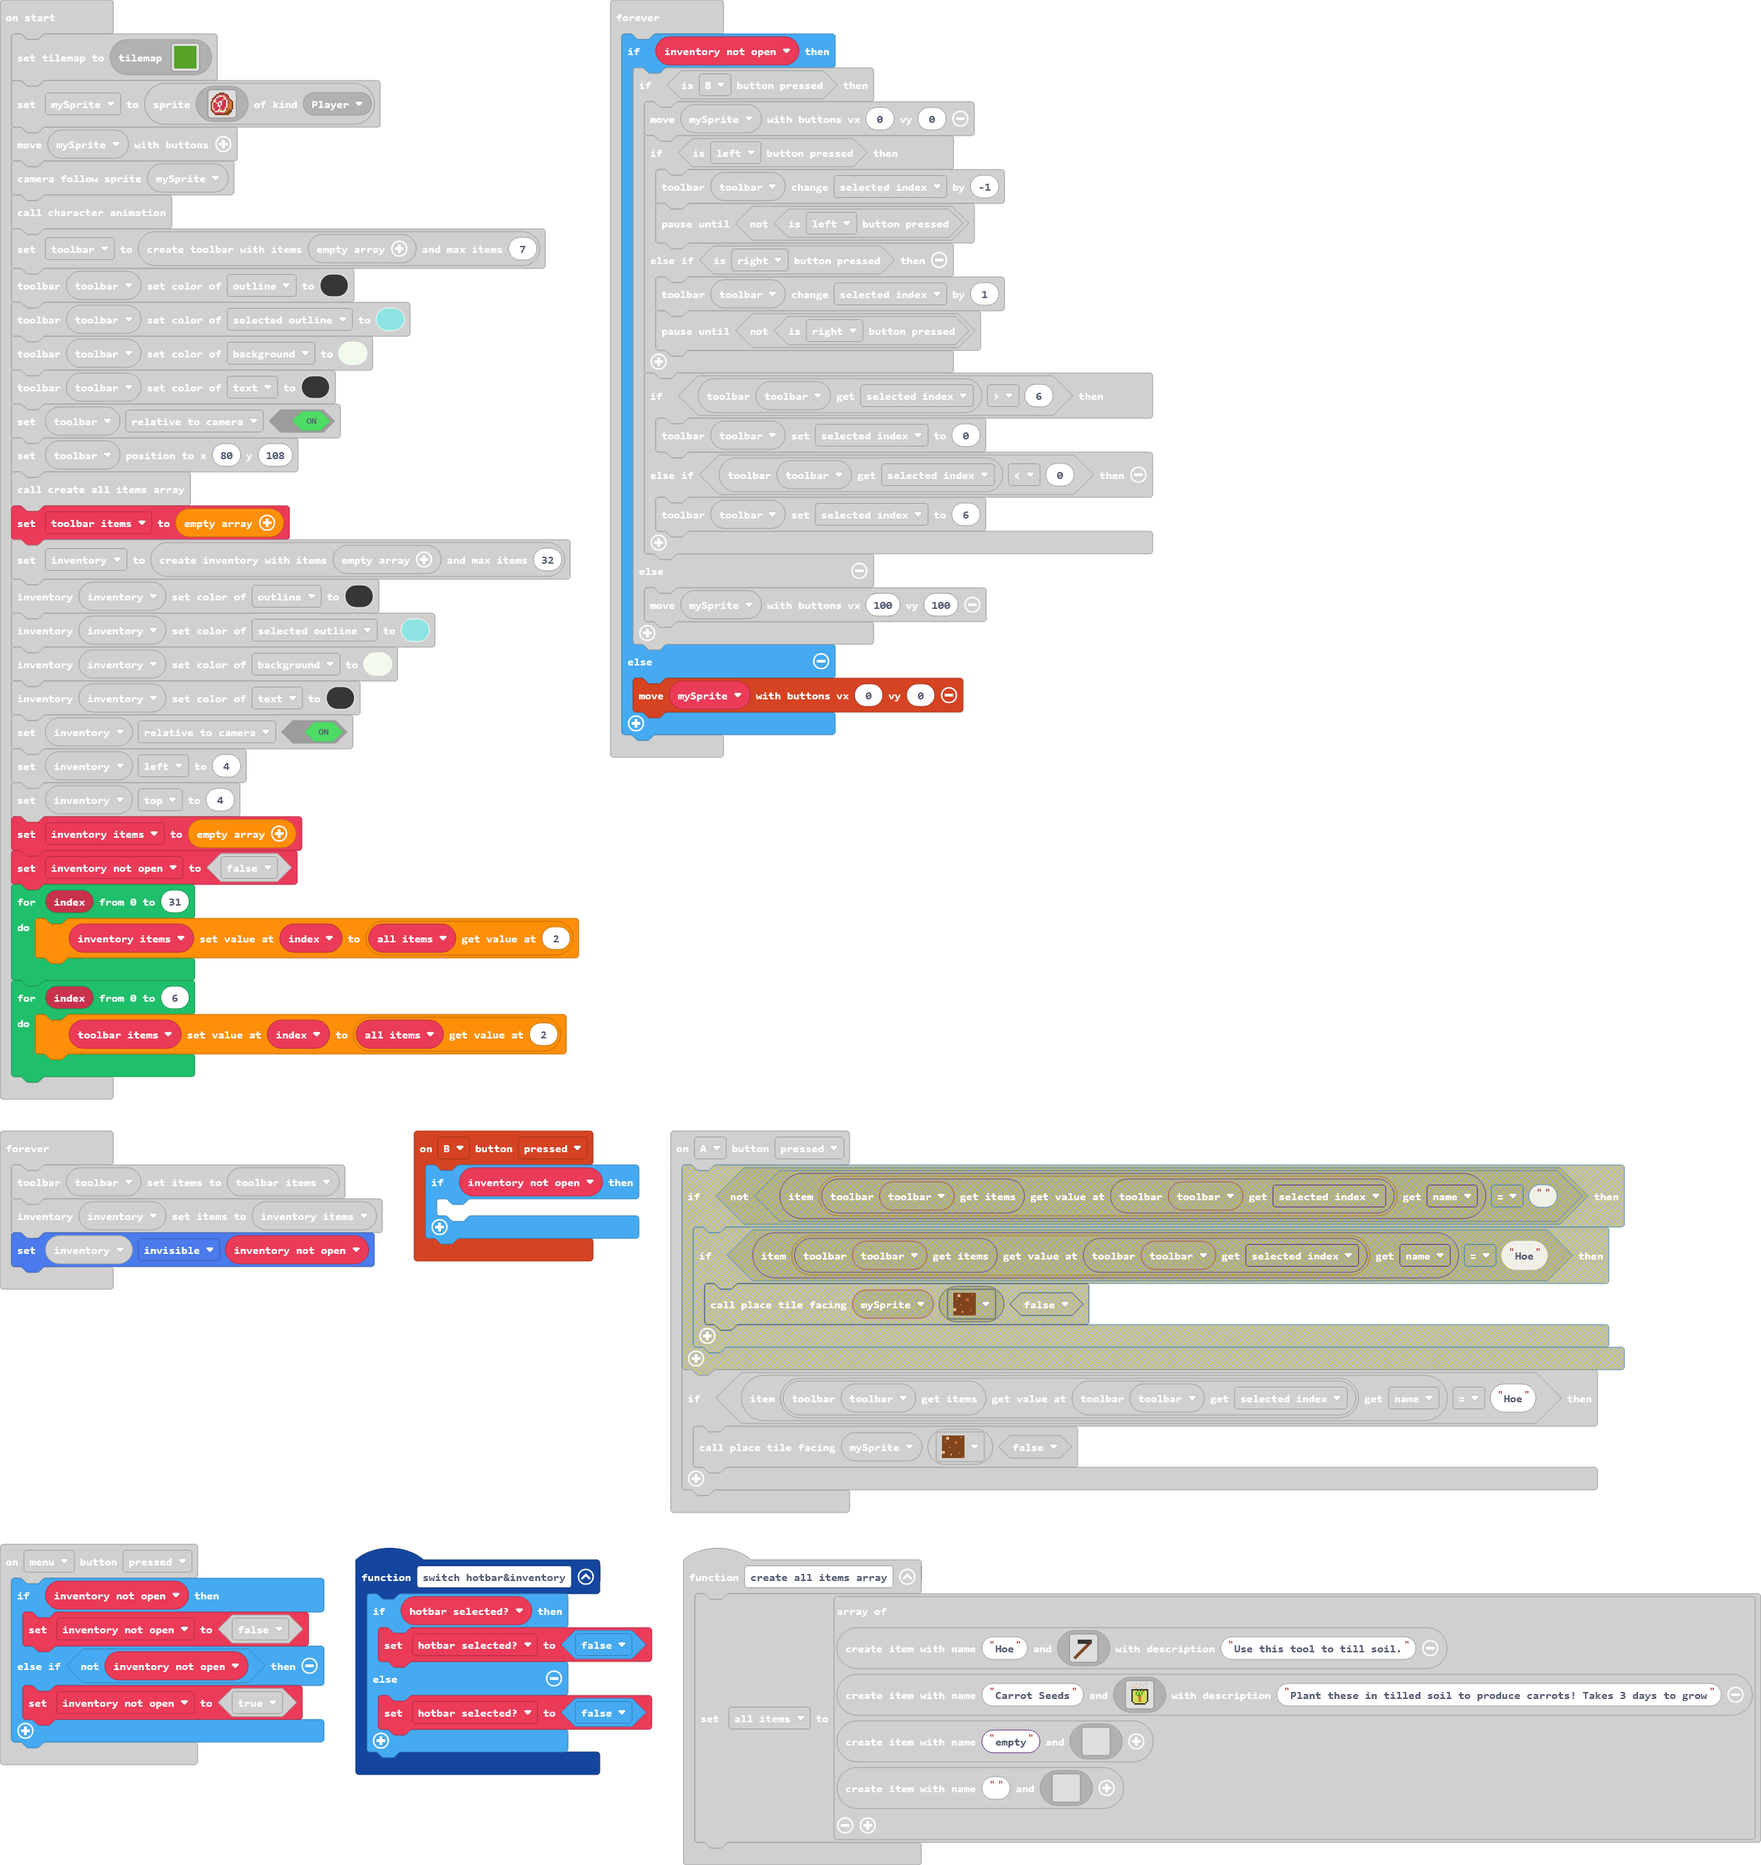
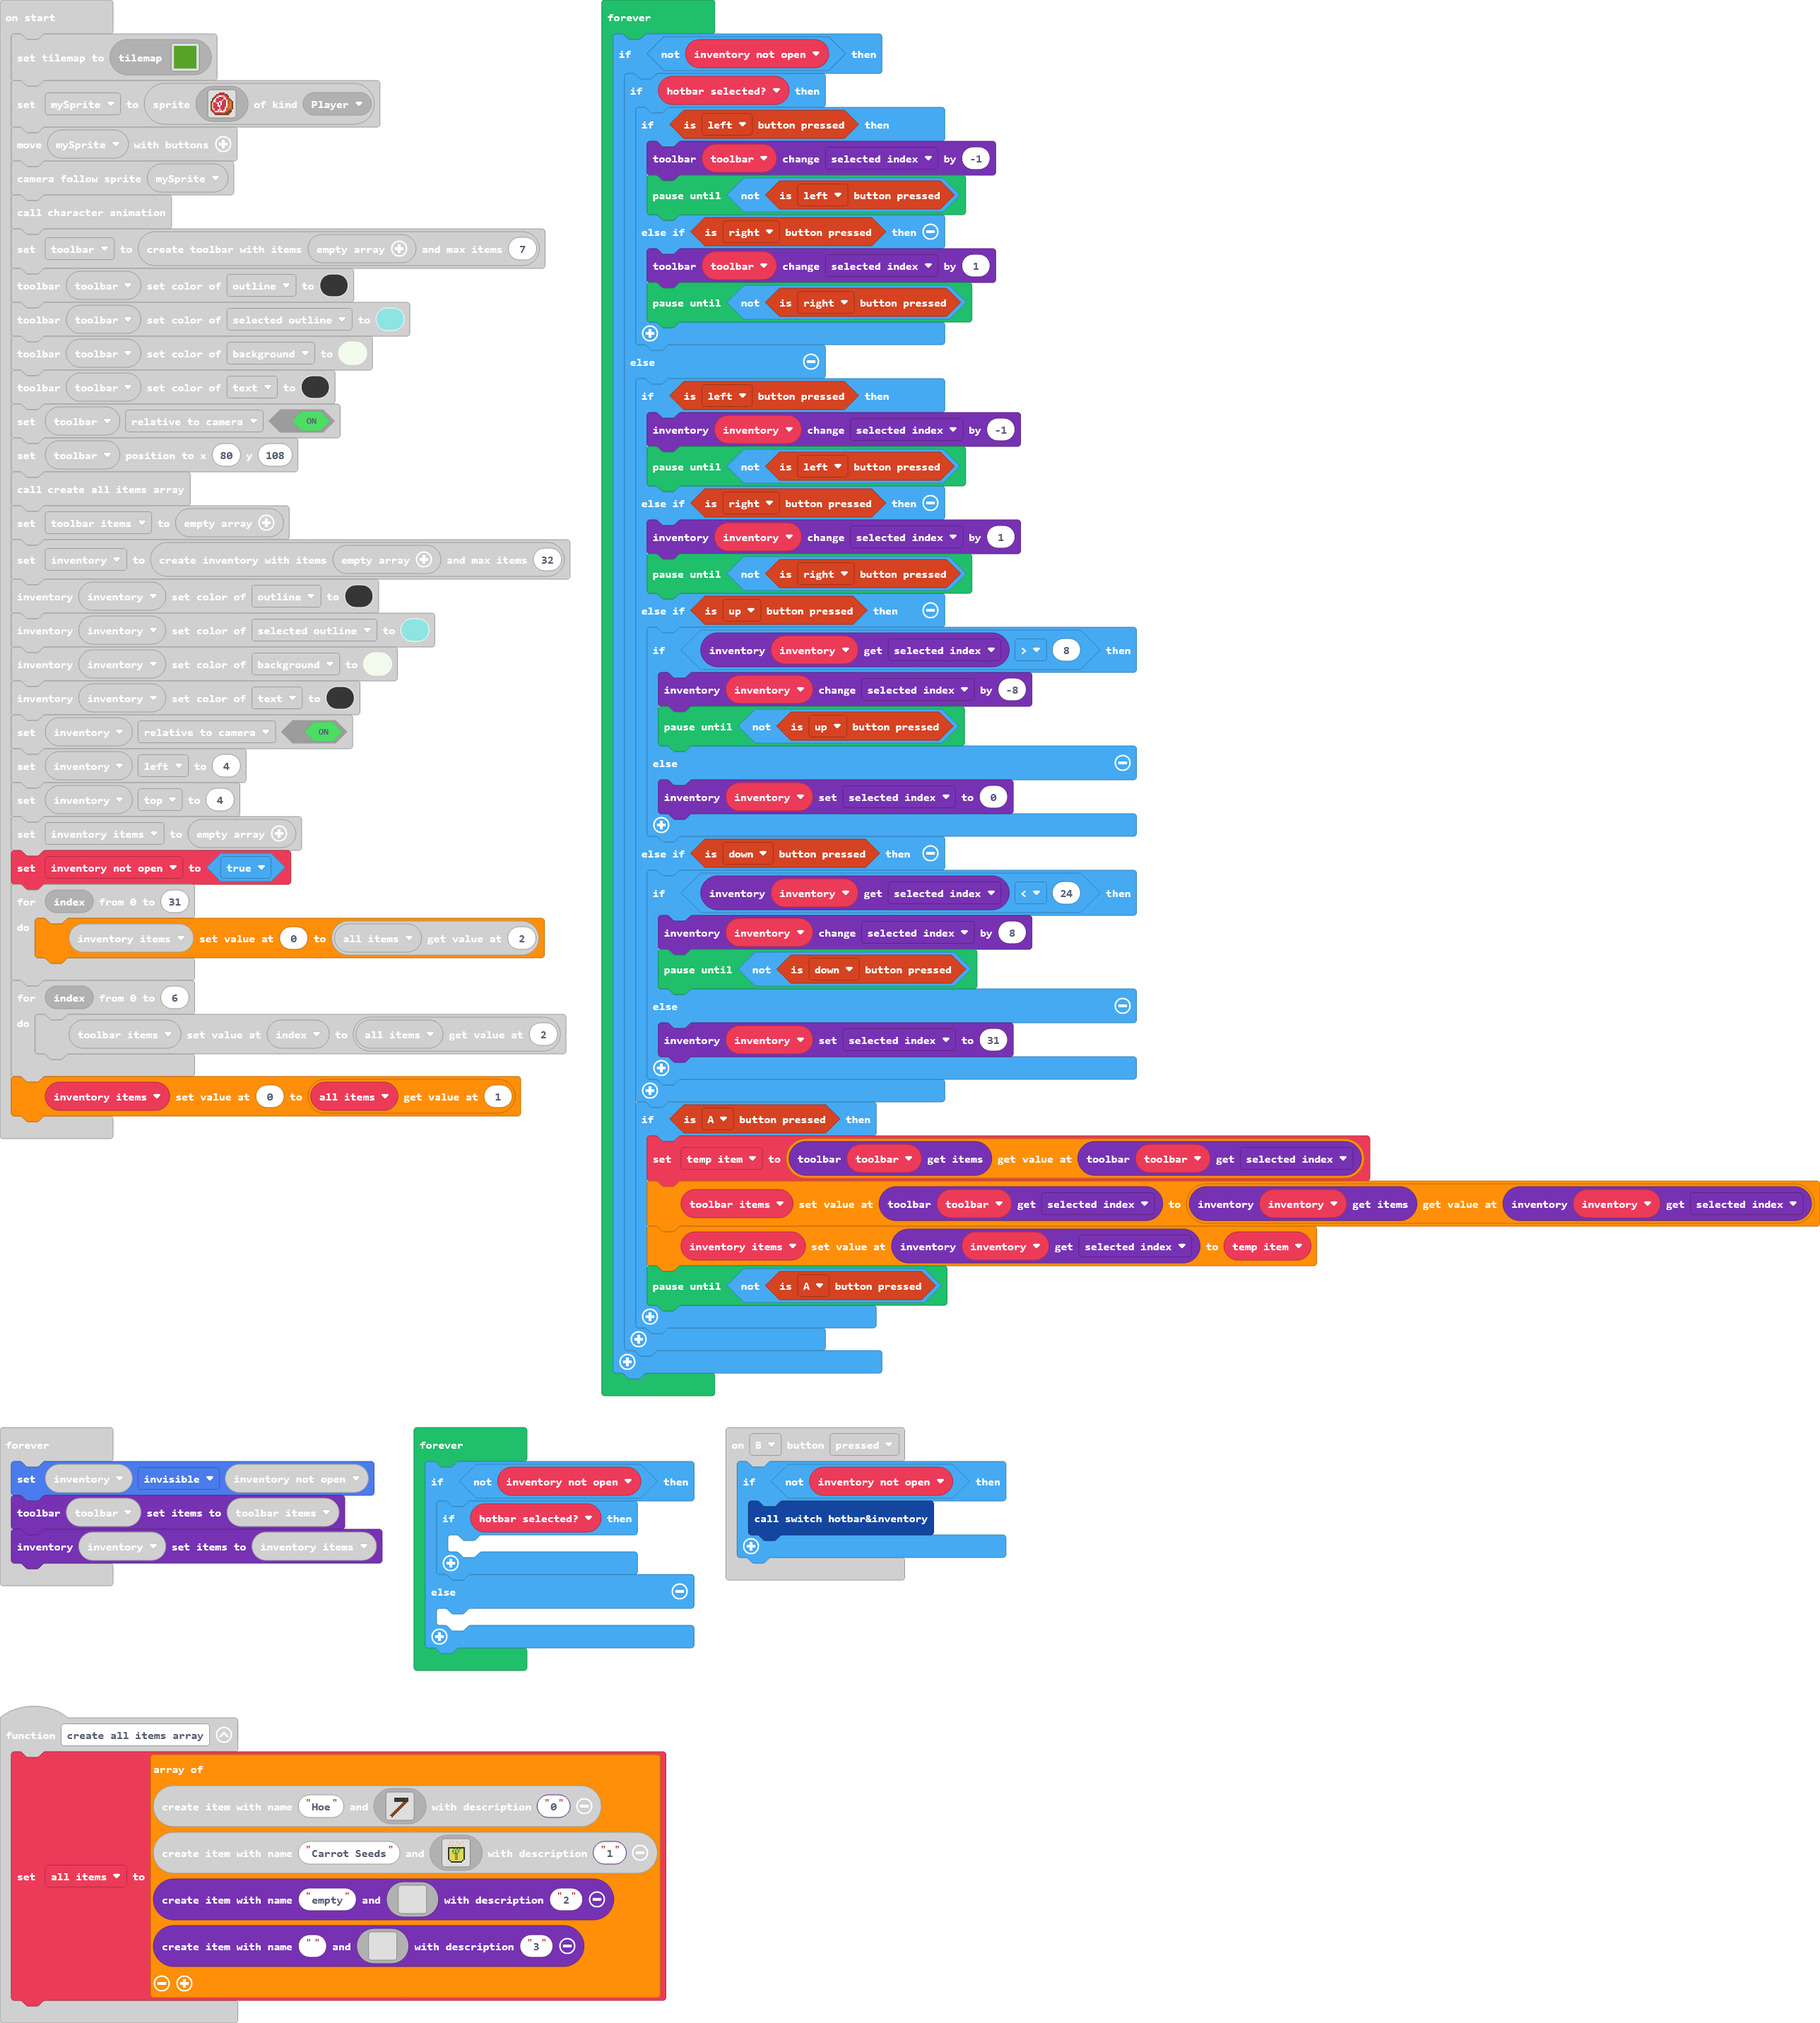
working inventory code!

diff --git a/main.ts b/main.ts
@@ -21,8 +21,8 @@ function place_tile_facing (mySprite: Sprite, myImage: Image, wall: boolean) {
     }
 }
 controller.B.onEvent(ControllerButtonEvent.Pressed, function () {
-    if (inventory_not_open) {
-    	
+    if (!(inventory_not_open)) {
+        switch_hotbarinventory()
     }
 })
 controller.A.onEvent(ControllerButtonEvent.Pressed, function () {
@@ -242,8 +242,8 @@ function create_all_items_array () {
         . . 7 7 7 . . . . . . . . . . . 
         . 7 7 7 . . . . . . . . . . . . 
         . . 7 . . . . . . . . . . . . . 
-        `, "Use this tool to till soil."),
-    Inventory.create_item("Carrot Seeds", assets.image`carrot seeds`, "Plant these in tilled soil to produce carrots! Takes 3 days to grow"),
+        `, "0"),
+    Inventory.create_item("Carrot Seeds", assets.image`carrot seeds`, "1"),
     Inventory.create_item("empty", img`
         . . . . . . . . . . . . . . . . 
         . . . . . . . . . . . . . . . . 
@@ -261,7 +261,7 @@ function create_all_items_array () {
         . . . . . . . . . . . . . . . . 
         . . . . . . . . . . . . . . . . 
         . . . . . . . . . . . . . . . . 
-        `),
+        `, "2"),
     Inventory.create_item("", img`
         . . . . . . . . . . . . . . . . 
         . . . . . . . . . . . . . . . . 
@@ -279,9 +279,10 @@ function create_all_items_array () {
         . . . . . . . . . . . . . . . . 
         . . . . . . . . . . . . . . . . 
         . . . . . . . . . . . . . . . . 
-        `)
+        `, "3")
     ]
 }
+let temp_item: Inventory.Item = null
 let hotbar_selected = false
 let all_items: Inventory.Item[] = []
 let inventory_not_open = false
@@ -327,13 +328,55 @@ inventory.setFlag(SpriteFlag.RelativeToCamera, true)
 inventory.left = 4
 inventory.top = 4
 let inventory_items: Inventory.Item[] = []
-inventory_not_open = false
+inventory_not_open = true
 for (let index = 0; index <= 31; index++) {
-    inventory_items[index] = all_items[2]
+    inventory_items[0] = all_items[2]
 }
 for (let index = 0; index <= 6; index++) {
     toolbar_items[index] = all_items[2]
 }
+inventory_items[0] = all_items[1]
+forever(function () {
+    if (!(inventory_not_open)) {
+        if (hotbar_selected) {
+            if (controller.left.isPressed()) {
+                toolbar.change_number(ToolbarNumberAttribute.SelectedIndex, -1)
+                pauseUntil(() => !(controller.left.isPressed()))
+            } else if (controller.right.isPressed()) {
+                toolbar.change_number(ToolbarNumberAttribute.SelectedIndex, 1)
+                pauseUntil(() => !(controller.right.isPressed()))
+            }
+        } else {
+            if (controller.left.isPressed()) {
+                inventory.change_number(InventoryNumberAttribute.SelectedIndex, -1)
+                pauseUntil(() => !(controller.left.isPressed()))
+            } else if (controller.right.isPressed()) {
+                inventory.change_number(InventoryNumberAttribute.SelectedIndex, 1)
+                pauseUntil(() => !(controller.right.isPressed()))
+            } else if (controller.up.isPressed()) {
+                if (inventory.get_number(InventoryNumberAttribute.SelectedIndex) > 8) {
+                    inventory.change_number(InventoryNumberAttribute.SelectedIndex, -8)
+                    pauseUntil(() => !(controller.up.isPressed()))
+                } else {
+                    inventory.set_number(InventoryNumberAttribute.SelectedIndex, 0)
+                }
+            } else if (controller.down.isPressed()) {
+                if (inventory.get_number(InventoryNumberAttribute.SelectedIndex) < 24) {
+                    inventory.change_number(InventoryNumberAttribute.SelectedIndex, 8)
+                    pauseUntil(() => !(controller.down.isPressed()))
+                } else {
+                    inventory.set_number(InventoryNumberAttribute.SelectedIndex, 31)
+                }
+            }
+            if (controller.A.isPressed()) {
+                temp_item = toolbar.get_items()[toolbar.get_number(ToolbarNumberAttribute.SelectedIndex)]
+                toolbar_items[toolbar.get_number(ToolbarNumberAttribute.SelectedIndex)] = inventory.get_items()[inventory.get_number(InventoryNumberAttribute.SelectedIndex)]
+                inventory_items[inventory.get_number(InventoryNumberAttribute.SelectedIndex)] = temp_item
+                pauseUntil(() => !(controller.A.isPressed()))
+            }
+        }
+    }
+})
 forever(function () {
     if (inventory_not_open) {
         if (controller.B.isPressed()) {
@@ -358,7 +401,16 @@ forever(function () {
     }
 })
 forever(function () {
+    inventory.setFlag(SpriteFlag.Invisible, inventory_not_open)
     toolbar.set_items(toolbar_items)
     inventory.set_items(inventory_items)
-    inventory.setFlag(SpriteFlag.Invisible, inventory_not_open)
+})
+forever(function () {
+    if (!(inventory_not_open)) {
+        if (hotbar_selected) {
+        	
+        }
+    } else {
+    	
+    }
 })
